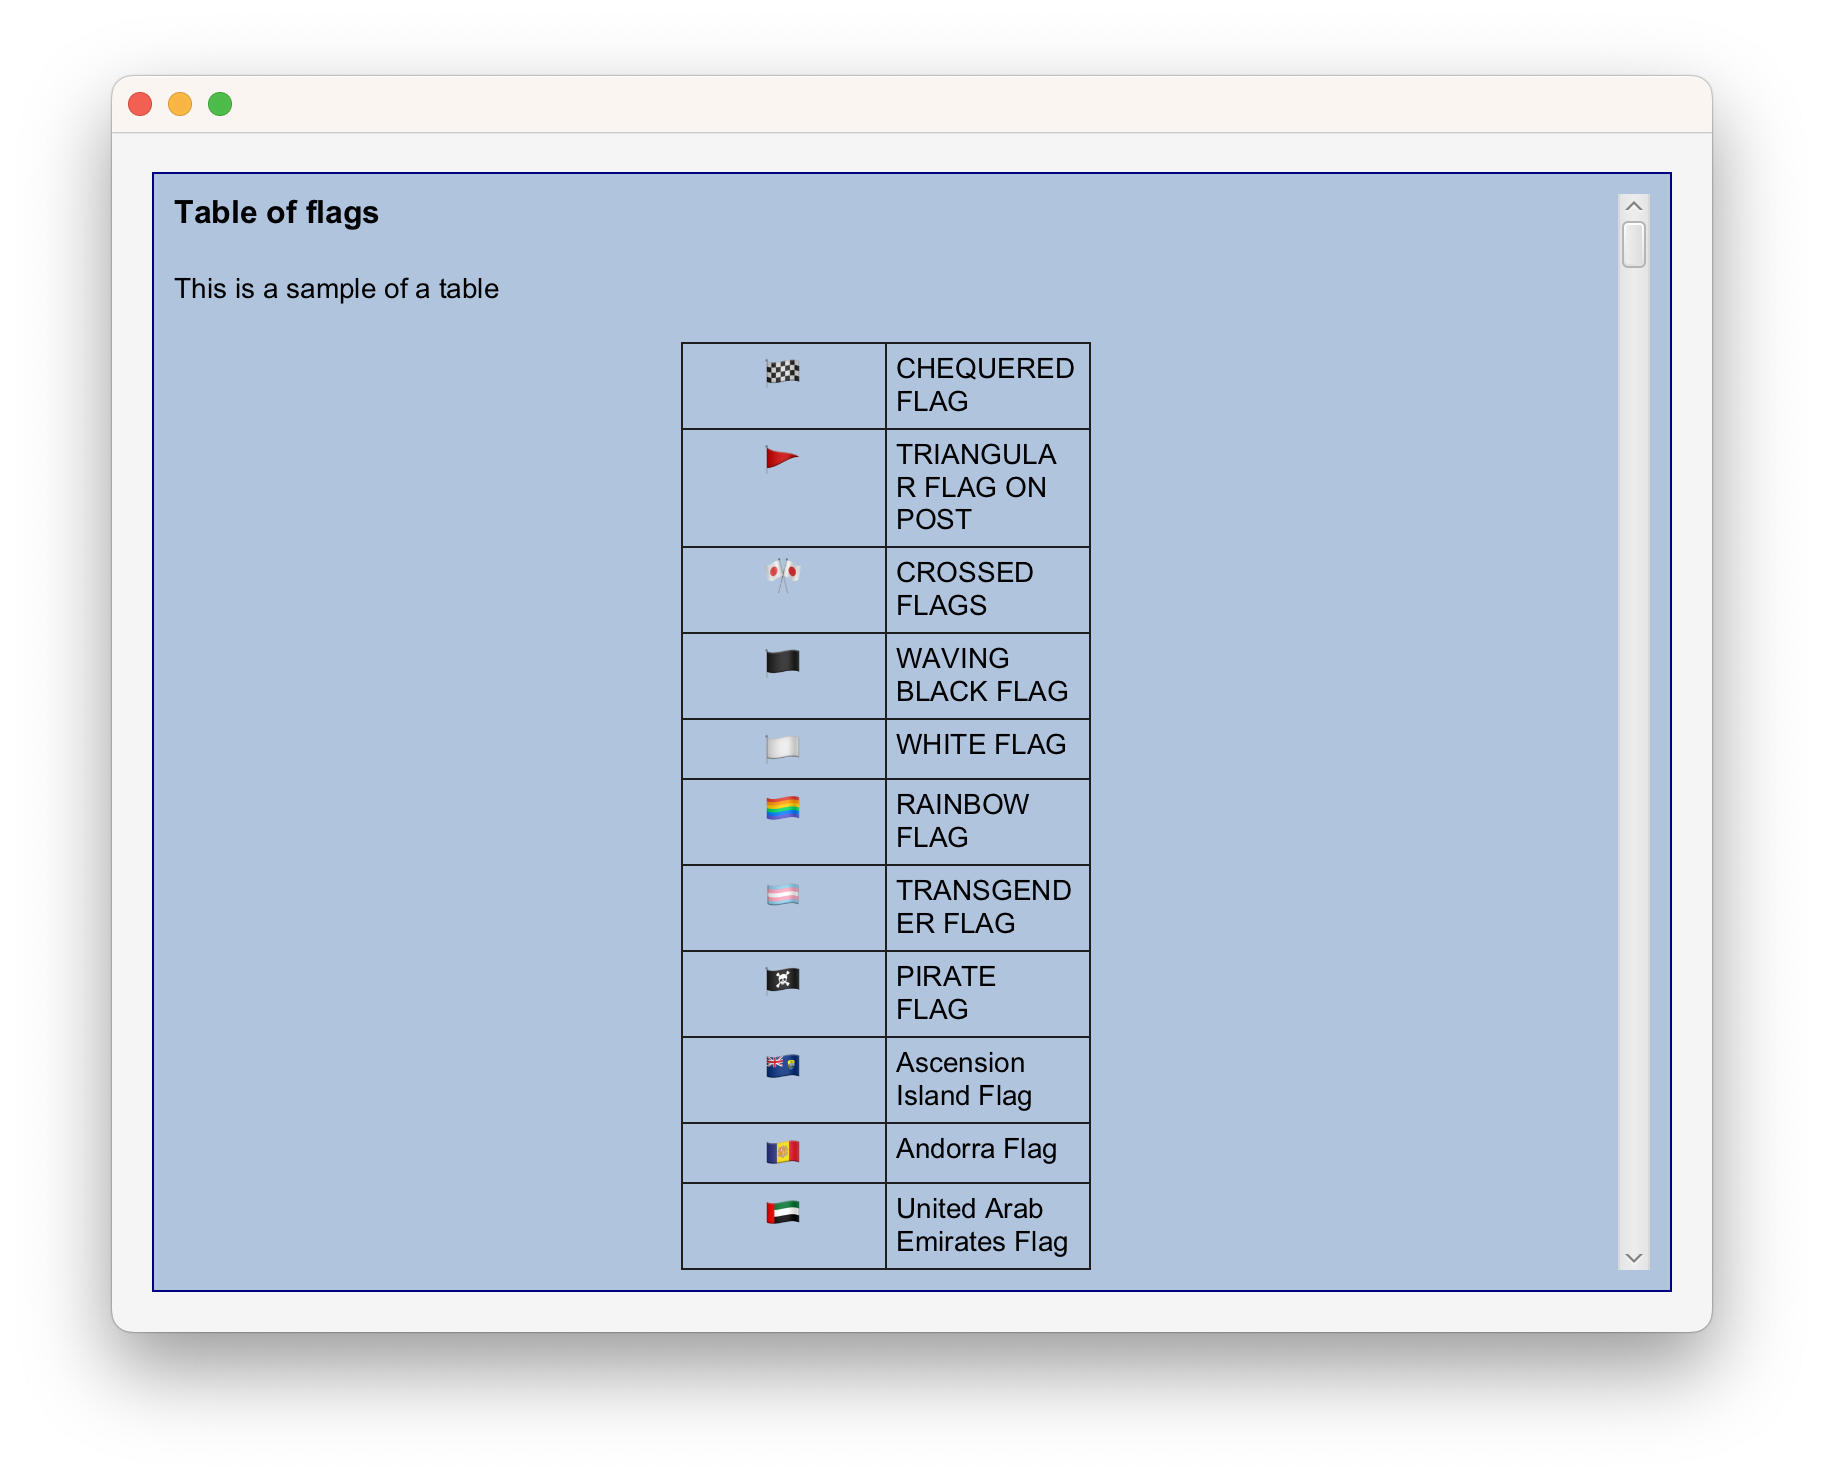
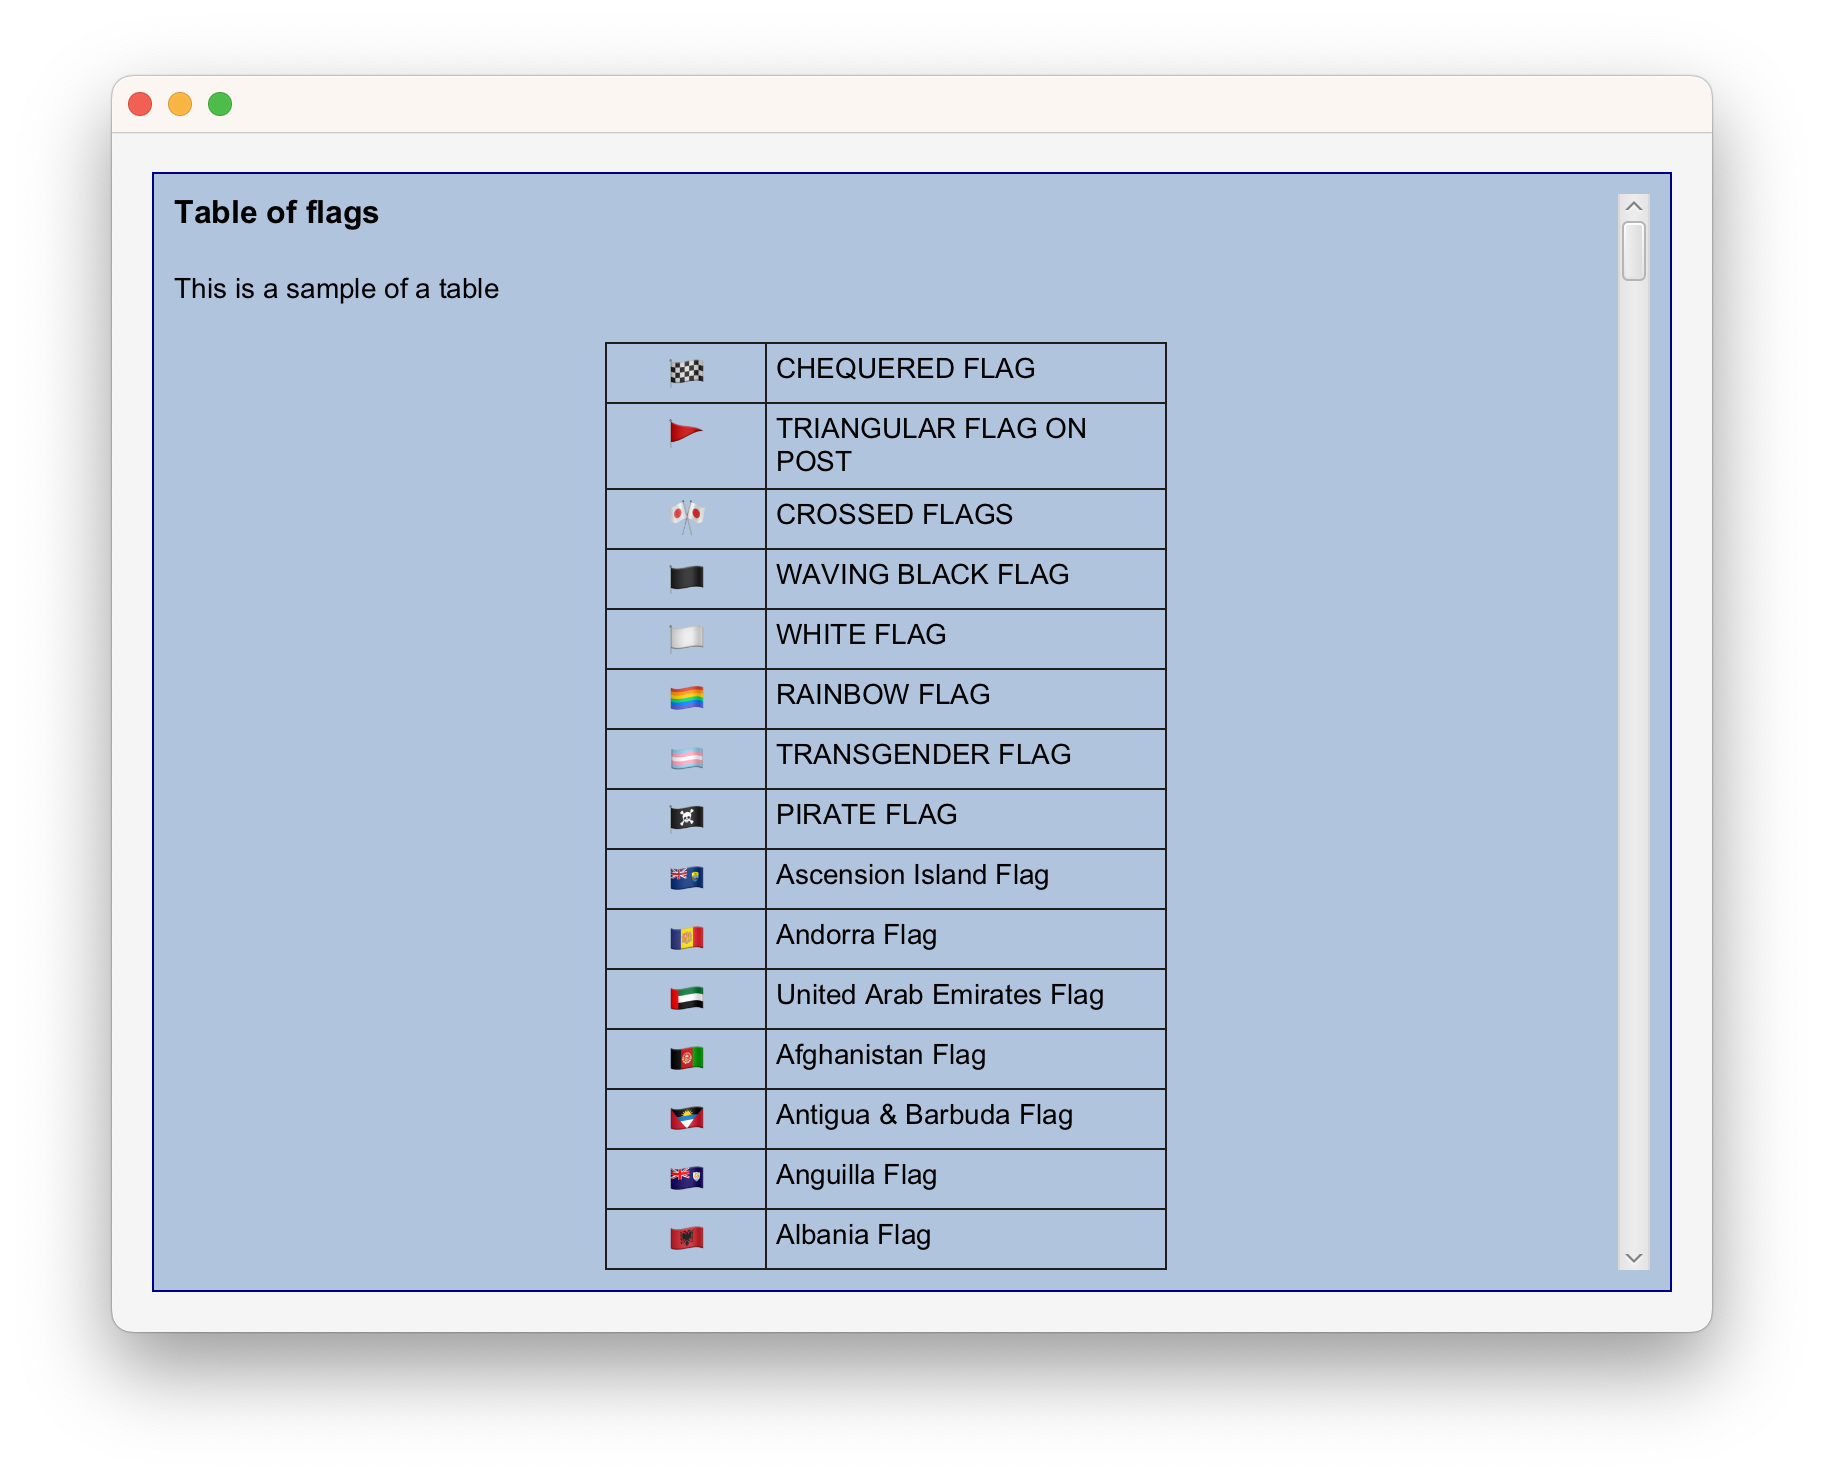
Update demos

Changed region(s): [[0.3438, 0.2176, 0.625, 0.8703]]

diff --git a/samples/src/main/java/com/gluonhq/richtextarea/samples/FullFeaturedDemo.java b/samples/src/main/java/com/gluonhq/richtextarea/samples/FullFeaturedDemo.java
@@ -104,6 +104,10 @@ import static javafx.scene.text.FontPosture.ITALIC;
 import static javafx.scene.text.FontPosture.REGULAR;
 import static javafx.scene.text.FontWeight.BOLD;
 import static javafx.scene.text.FontWeight.NORMAL;
+import static javafx.scene.text.TextAlignment.CENTER;
+import static javafx.scene.text.TextAlignment.JUSTIFY;
+import static javafx.scene.text.TextAlignment.LEFT;
+import static javafx.scene.text.TextAlignment.RIGHT;
 
 /**
  * This is an advance sample that shows how to create a rich text editor, by using
@@ -127,15 +131,17 @@ public class FullFeaturedDemo extends Application {
     private final List<DecorationModel> decorations;
 
     {
-        TextDecoration bold14 = TextDecoration.builder().presets().fontWeight(BOLD).fontSize(14).build();
-        TextDecoration preset = TextDecoration.builder().presets().build();
-        ParagraphDecoration center63 = ParagraphDecoration.builder().presets().alignment(TextAlignment.CENTER).topInset(6).bottomInset(3).build();
-        ParagraphDecoration justify22 = ParagraphDecoration.builder().presets().alignment(TextAlignment.JUSTIFY).topInset(2).bottomInset(2).build();
-        ParagraphDecoration right22 = ParagraphDecoration.builder().presets().alignment(TextAlignment.RIGHT).topInset(2).bottomInset(2).build();
-        ParagraphDecoration left535 = ParagraphDecoration.builder().presets().alignment(TextAlignment.LEFT).topInset(5).bottomInset(3).spacing(5).build();
-        ParagraphDecoration center42 = ParagraphDecoration.builder().presets().alignment(TextAlignment.CENTER).topInset(4).bottomInset(2).build();
-        TableDecoration tdec = new TableDecoration(2, 3, new TextAlignment[][]{{TextAlignment.CENTER, TextAlignment.LEFT, TextAlignment.RIGHT}, {TextAlignment.JUSTIFY, TextAlignment.RIGHT, TextAlignment.CENTER}});
-        ParagraphDecoration table = ParagraphDecoration.builder().presets().alignment(TextAlignment.CENTER).tableDecoration(tdec).build();
+        TextDecoration bold14 = TextDecoration.builder().presets().fontFamily("Arial").fontWeight(BOLD).fontSize(14).build();
+        TextDecoration preset = TextDecoration.builder().presets().fontFamily("Arial").build();
+        ParagraphDecoration center63 = ParagraphDecoration.builder().presets().alignment(CENTER).topInset(6).bottomInset(3).build();
+        ParagraphDecoration justify22 = ParagraphDecoration.builder().presets().alignment(JUSTIFY).topInset(2).bottomInset(2).build();
+        ParagraphDecoration right22 = ParagraphDecoration.builder().presets().alignment(RIGHT).topInset(2).bottomInset(2).build();
+        ParagraphDecoration left535 = ParagraphDecoration.builder().presets().alignment(LEFT).topInset(5).bottomInset(3).spacing(5).build();
+        ParagraphDecoration center42 = ParagraphDecoration.builder().presets().alignment(CENTER).topInset(4).bottomInset(2).build();
+        TableDecoration tdec = new TableDecoration(2, 3,
+                new TextAlignment[][]{{CENTER, LEFT, RIGHT}, {JUSTIFY, RIGHT, CENTER}},
+                new Double[] {100d, 50d, 150d});
+        ParagraphDecoration table = ParagraphDecoration.builder().presets().alignment(CENTER).tableDecoration(tdec).build();
         decorations = List.of(
                 new DecorationModel(0, 21, bold14, center63),
                 new DecorationModel(21, 575, preset, justify22),
@@ -192,7 +198,7 @@ public class FullFeaturedDemo extends Application {
 
         ComboBox<String> fontFamilies = new ComboBox<>();
         fontFamilies.getItems().setAll(Font.getFamilies());
-        fontFamilies.setValue("Arial");
+        fontFamilies.setValue("System");
         fontFamilies.setPrefWidth(100);
         new TextDecorateAction<>(editor, fontFamilies.valueProperty(), TextDecoration::getFontFamily, (builder, a) -> builder.fontFamily(a).build());
 
@@ -269,10 +275,10 @@ public class FullFeaturedDemo extends Application {
 
         ToolBar paragraphToolbar = new ToolBar();
         paragraphToolbar.getItems().setAll(
-                createToggleButton(LineAwesomeSolid.ALIGN_LEFT, property -> new ParagraphDecorateAction<>(editor, property, d -> d.getAlignment() == TextAlignment.LEFT, (builder, a) -> builder.alignment(TextAlignment.LEFT).build())),
-                createToggleButton(LineAwesomeSolid.ALIGN_CENTER, property -> new ParagraphDecorateAction<>(editor, property, d -> d.getAlignment() == TextAlignment.CENTER, (builder, a) -> builder.alignment(a ? TextAlignment.CENTER : TextAlignment.LEFT).build())),
-                createToggleButton(LineAwesomeSolid.ALIGN_RIGHT, property -> new ParagraphDecorateAction<>(editor, property, d -> d.getAlignment() == TextAlignment.RIGHT, (builder, a) -> builder.alignment(a ? TextAlignment.RIGHT : TextAlignment.LEFT).build())),
-                createToggleButton(LineAwesomeSolid.ALIGN_JUSTIFY, property -> new ParagraphDecorateAction<>(editor, property, d -> d.getAlignment() == TextAlignment.JUSTIFY, (builder, a) -> builder.alignment(a ? TextAlignment.JUSTIFY : TextAlignment.LEFT).build())),
+                createToggleButton(LineAwesomeSolid.ALIGN_LEFT, property -> new ParagraphDecorateAction<>(editor, property, d -> d.getAlignment() == LEFT, (builder, a) -> builder.alignment(LEFT).build())),
+                createToggleButton(LineAwesomeSolid.ALIGN_CENTER, property -> new ParagraphDecorateAction<>(editor, property, d -> d.getAlignment() == CENTER, (builder, a) -> builder.alignment(a ? CENTER : LEFT).build())),
+                createToggleButton(LineAwesomeSolid.ALIGN_RIGHT, property -> new ParagraphDecorateAction<>(editor, property, d -> d.getAlignment() == RIGHT, (builder, a) -> builder.alignment(a ? RIGHT : LEFT).build())),
+                createToggleButton(LineAwesomeSolid.ALIGN_JUSTIFY, property -> new ParagraphDecorateAction<>(editor, property, d -> d.getAlignment() == JUSTIFY, (builder, a) -> builder.alignment(a ? JUSTIFY : LEFT).build())),
                 new Separator(Orientation.VERTICAL),
                 createSpinner("Spacing", p -> new ParagraphDecorateAction<>(editor, p, v -> (int) v.getSpacing(), (builder, a) -> builder.spacing(a).build())),
                 new Separator(Orientation.VERTICAL),
@@ -533,10 +539,10 @@ public class FullFeaturedDemo extends Application {
 
     private enum Presets {
 
-        DEFAULT("Default",12, NORMAL, TextAlignment.LEFT),
-        HEADER1("Header 1", 32, BOLD, TextAlignment.CENTER),
-        HEADER2("Header 2", 24, BOLD, TextAlignment.LEFT),
-        HEADER3("Header 3", 19, BOLD, TextAlignment.LEFT);
+        DEFAULT("Default",12, NORMAL, LEFT),
+        HEADER1("Header 1", 32, BOLD, CENTER),
+        HEADER2("Header 2", 24, BOLD, LEFT),
+        HEADER3("Header 3", 19, BOLD, LEFT);
 
         private final String name;
         private final int fontSize;

diff --git a/samples/src/main/java/com/gluonhq/richtextarea/samples/TableDemo.java b/samples/src/main/java/com/gluonhq/richtextarea/samples/TableDemo.java
@@ -89,7 +89,7 @@ public class TableDemo extends Application {
             alignment[i][0] = TextAlignment.CENTER;
             alignment[i][1] = TextAlignment.LEFT;
         }
-        TableDecoration tableDecoration = new TableDecoration(flags, 2, alignment);
+        TableDecoration tableDecoration = new TableDecoration(flags, 2, alignment, new Double[] {80d, 200d});
         ParagraphDecoration table = ParagraphDecoration.builder().presets().alignment(TextAlignment.CENTER)
                 .tableDecoration(tableDecoration)
                 .topInset(5).rightInset(5).bottomInset(5).leftInset(5)

diff --git a/samples/README.md b/samples/README.md
@@ -159,4 +159,4 @@ To run this sample, using Java 17+, do as follows:
 mvn javafx:run
 ```
 
-![rta_editor.png](../.github/assets/rta_editor.png)
+![rta_editor.png](../.github/assets/FullFeaturedDemo.png)
